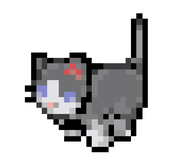
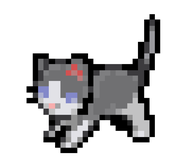
added animation timer

Changed region(s): [[0.1075, 0.0595, 0.8871, 0.9226]]

diff --git a/Cat.java b/Cat.java
@@ -8,25 +8,44 @@ import greenfoot.*;  // (World, Actor, GreenfootImage, Greenfoot and MouseInfo)
  */
 public class Cat extends Actor
 {
-    GreenfootImage[] idle = new GreenfootImage[4];
+    GreenfootImage[] idleLeft = new GreenfootImage[9];
+    GreenfootImage[] idleRight = new GreenfootImage[9];
     /**
      * Act - do whatever the Cat wants to do. This method is called whenever
      * the 'Act' or 'Run' button gets pressed in the environment.
      */
     private final int GRAVITY = 1;
     private int velocity;
-    private boolean isFacingRight=true;
-
+    
+    String facing = "left";
+    SimpleTimer animationTimer = new SimpleTimer();
     public Cat(){
-        for(int i = 0; i < idle.length; i++){
-            idle[i] = new GreenfootImage("images/cat_idle/cat" + i + ".png");
+        for(int i = 0; i < idleLeft.length; i++){
+            idleLeft[i] = new GreenfootImage("images/cat_idle/cat" + i + ".png");
+            idleLeft[i].scale(80, 80);
         }
-        setImage(idle[0]);
+        for(int i=0; i<idleRight.length; i++){
+            idleRight[i] = new GreenfootImage("images/cat_idle/cat" + i + ".png");
+            idleRight[i].mirrorHorizontally();
+            idleRight[i].scale(80, 80);
+        }
+        animationTimer.mark();
+        setImage(idleLeft[0]);
     }
     int imageIndex=0;
     public void animateCat(){
-        setImage(idle[imageIndex]);
-        imageIndex = (imageIndex + 1) % idle.length;
+        if(animationTimer.millisElapsed() < 20){
+            return;
+        }
+        animationTimer.mark();
+        if(facing.equals("right")){
+            setImage(idleRight[imageIndex]);
+            imageIndex = (imageIndex + 1) % idleRight.length;
+        }
+        else{
+            setImage(idleLeft[imageIndex]);
+            imageIndex = (imageIndex + 1) % idleLeft.length;
+        }
     }
 
     public void act()
@@ -50,11 +69,11 @@ public class Cat extends Actor
         }
          */
         if(Greenfoot.isKeyDown("A")){
-            isFacingRight=true;
+            facing = "left";
             x-=4;
         }
         if(Greenfoot.isKeyDown("D")){
-            isFacingRight=false;
+            facing = "right";
             x+=4;
         }
         setLocation(x,y);
@@ -71,7 +90,7 @@ public class Cat extends Actor
     }
 
     public void jump(){
-        velocity = -20;
+        velocity = -10;
     }
 
 }

diff --git a/SimpleTimer.java b/SimpleTimer.java
@@ -1,0 +1,61 @@
+/**
+ * A simple timer class that allows you to keep track of how much time
+ * has passed between events.
+ * 
+ * You use this class by creating a timer as a member field in your actor (or whatever):
+ * <pre>
+ * 
+ * private SimpleTimer timer = new SimpleTimer();
+ * </pre>
+ * 
+ * Then when you want to start the timer (for example, when a shot is fired), you call the mark() method:
+ * 
+ * <pre>
+ * 
+ * timer.mark();
+ * </pre>
+ * 
+ * Thereafter, you can use the millisElapsed() method to find out how long it's been since mark()
+ * was called (in milliseconds, i.e. thousandths of a second).  So if you want to only allow the player to fire a shot every second, you
+ * could write:
+ * 
+ * <pre>
+ * 
+ * if (timer.millisElapsed() > 1000 && Greenfoot.isKeyDown("space"))
+ * {
+ *     // Code here for firing a new shot
+ *     timer.mark(); // Reset the timer
+ * }
+ * </pre>
+ * 
+ * @author Neil Brown
+ * @version 1.0
+ */
+public class SimpleTimer
+{
+    private long lastMark = System.currentTimeMillis();
+    
+    /**
+     * Marks the current time.  You can then in future call
+     * millisElapsed() to find out the elapsed milliseconds
+     * since this mark() call was made.
+     * 
+     * A second mark() call will reset the mark, and millisElapsed()
+     * will start increasing from zero again.
+     */
+    public void mark()
+    {
+        lastMark = System.currentTimeMillis();
+    }
+    
+    /**
+     * Returns the amount of milliseconds that have elapsed since mark()
+     * was last called.  This timer runs irrespective of Greenfoot's
+     * act() cycle, so if you call it many times during the same Greenfoot frame,
+     * you may well get different answers.
+     */
+    public int millisElapsed()
+    {
+        return (int) (System.currentTimeMillis() - lastMark);
+    }
+}
